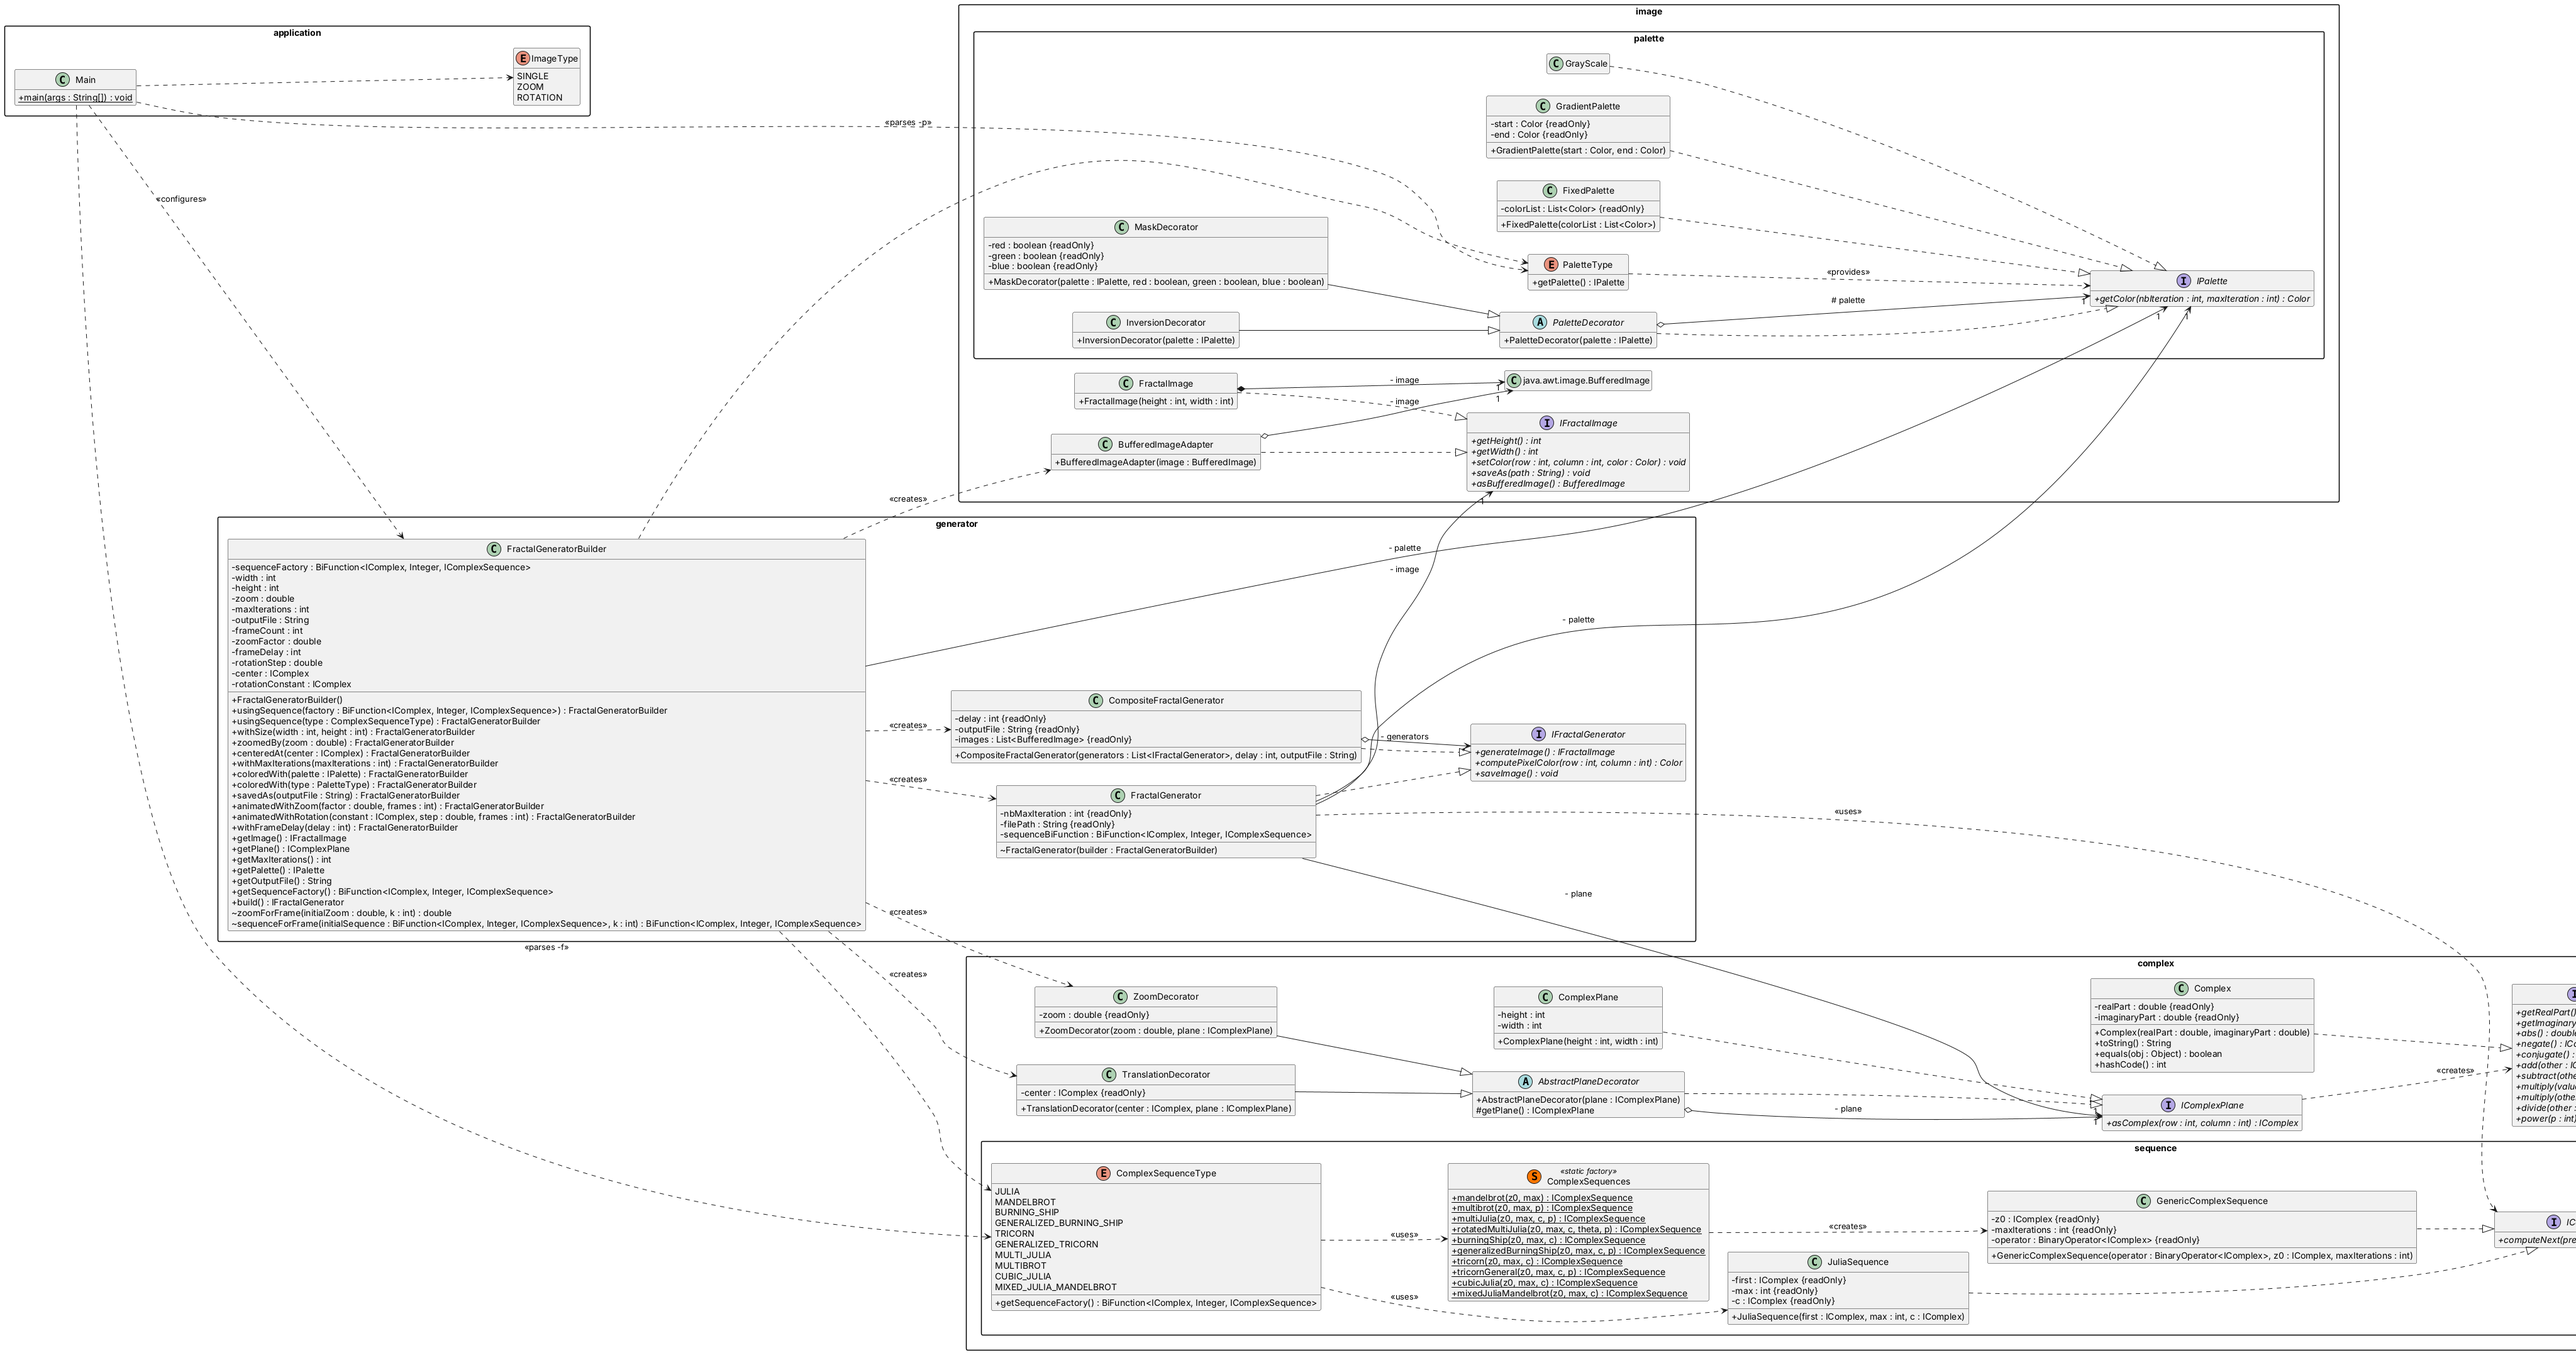
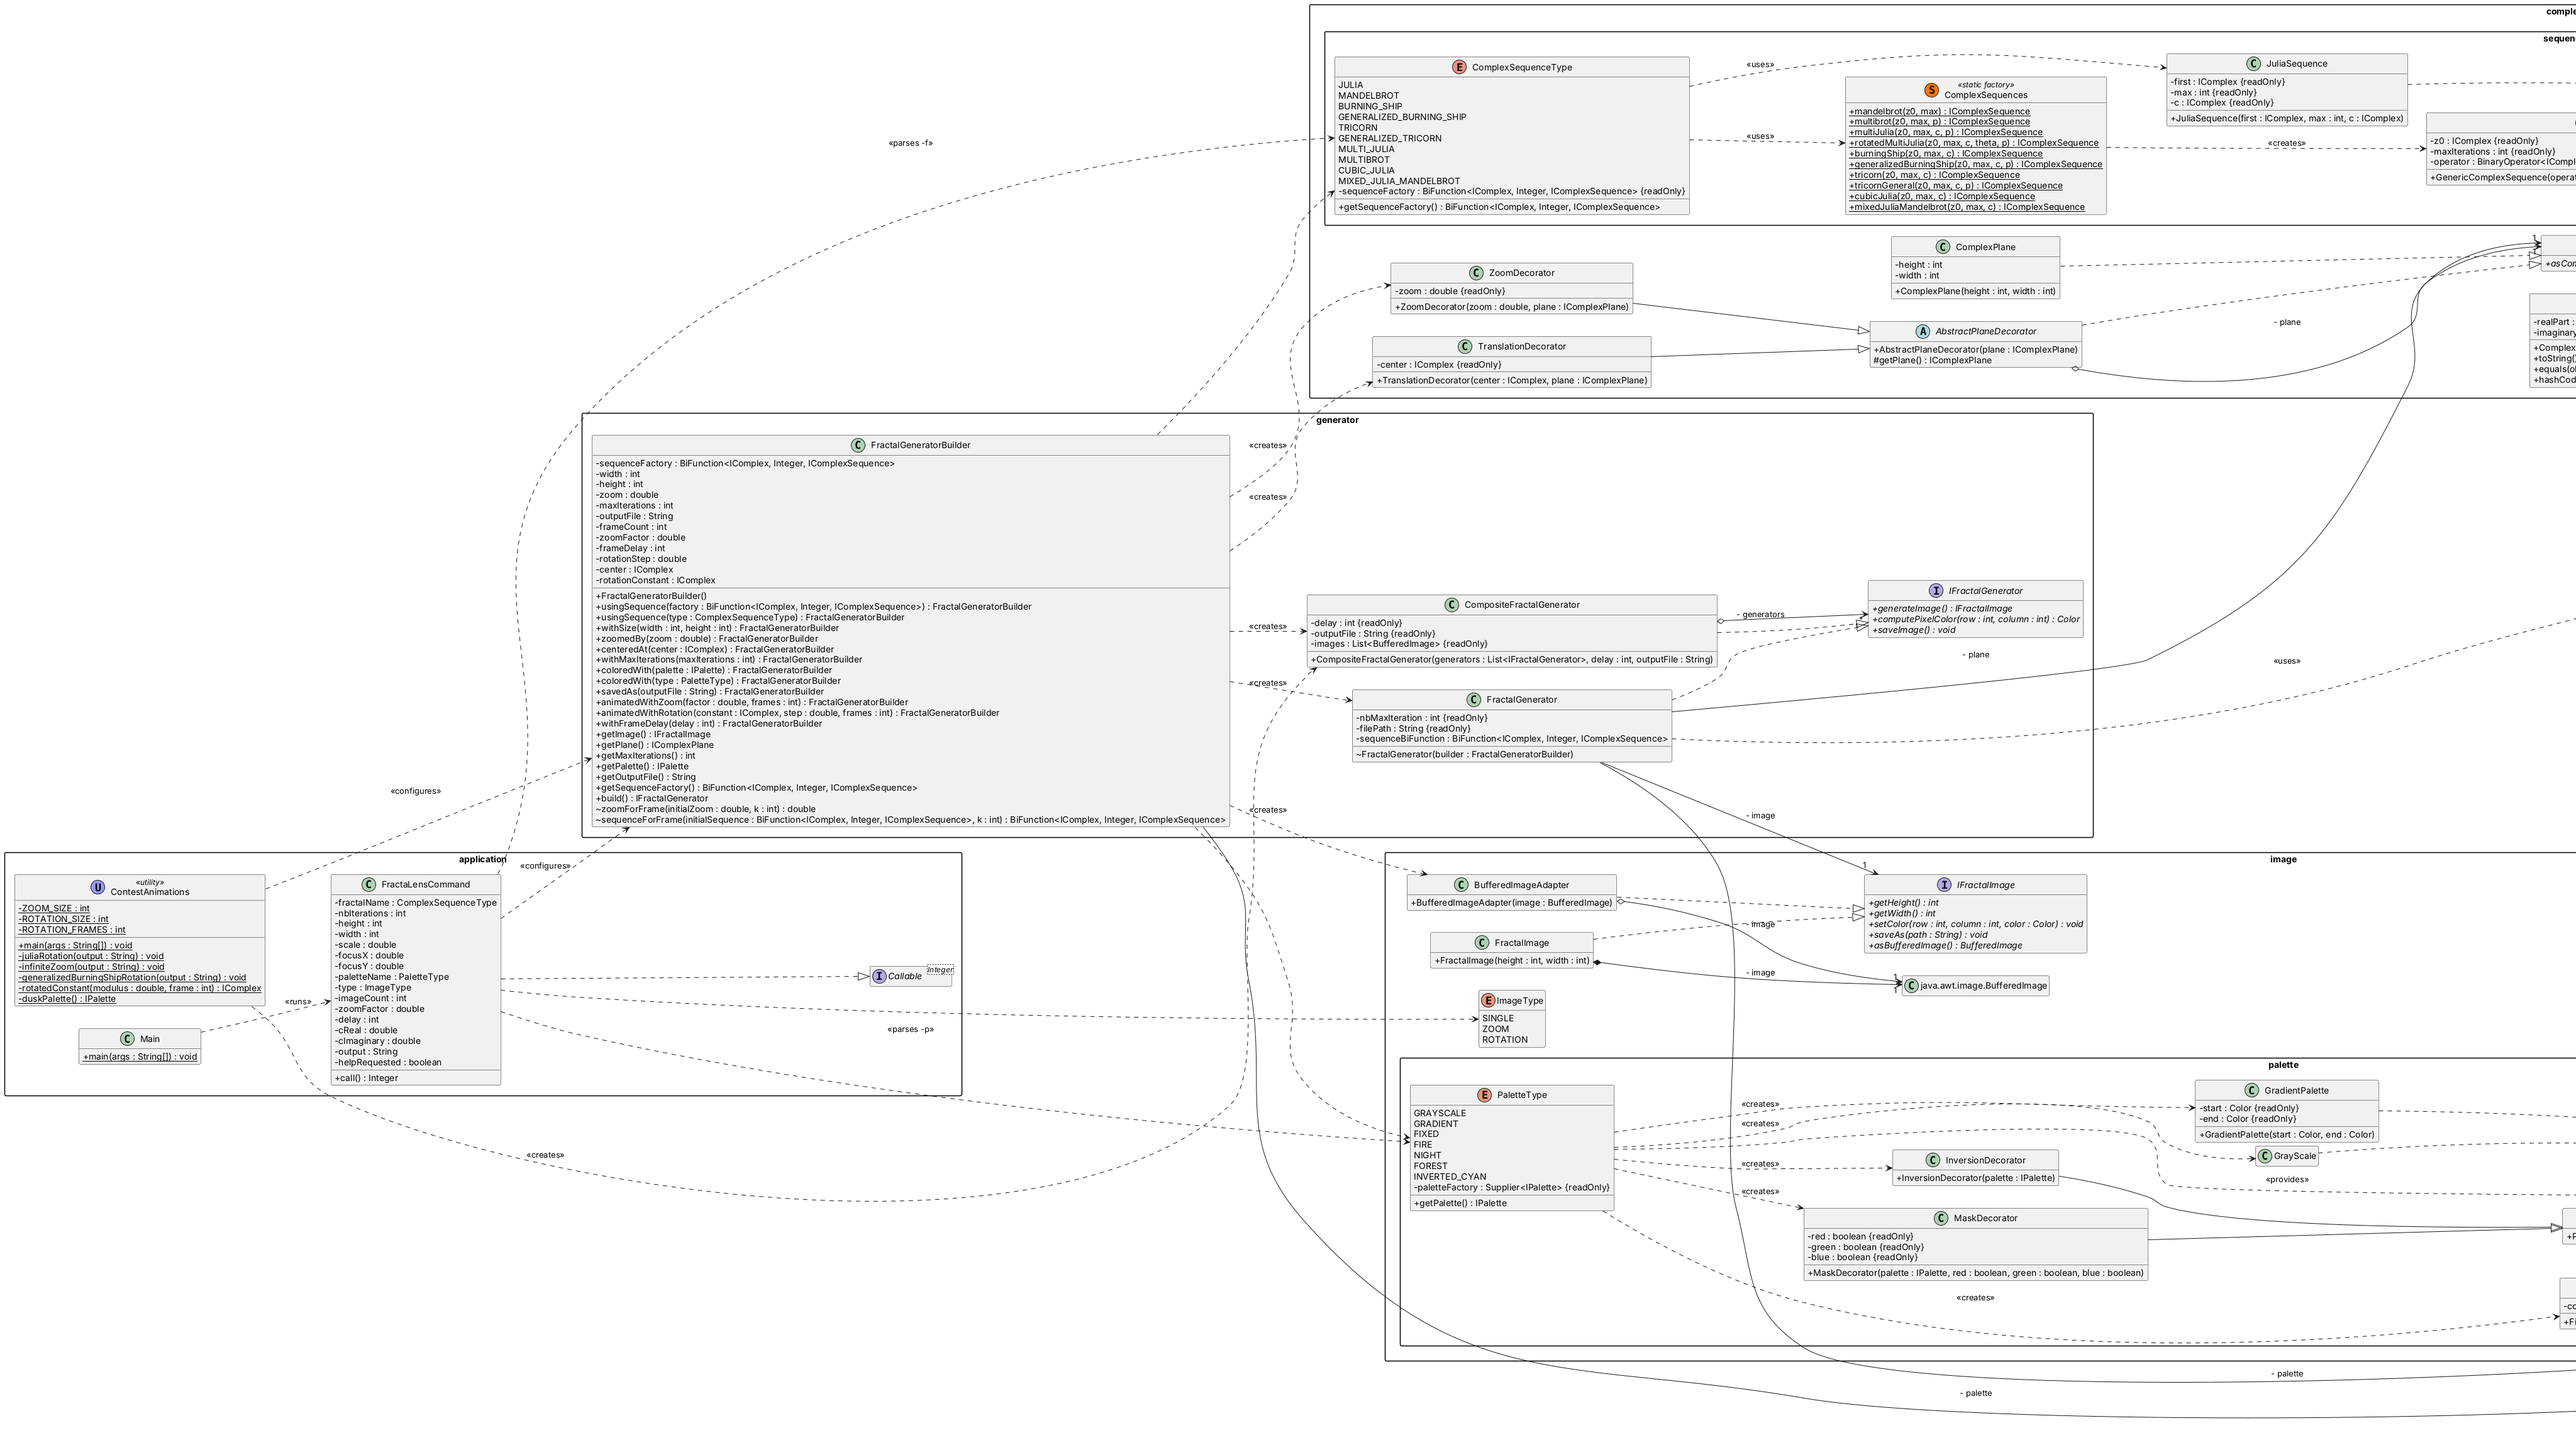
readMe

diff --git a/README.md b/README.md
@@ -84,9 +84,13 @@ enumeration:
 
 | Name | Palette |
 |------|---------|
-| `FIXED` | A fixed palette going from white to black, through three shades of blue. |
-| `GRADIENT` | A gradient going from dark green to black. |
 | `GRAYSCALE` | Shades of gray, from white to black. |
+| `GRADIENT` | A gradient going from dark green to black. |
+| `FIXED` | A fixed palette going from white to black, through three shades of blue. |
+| `FIRE` | A fixed palette going from pale yellow to black, through yellow, orange and red. |
+| `NIGHT` | A fixed palette going from dark blue to black, through purple, pink and gold. |
+| `FOREST` | A fixed palette going from dark green to black, through lighter greens. |
+| `INVERTED_CYAN` | The gray scale palette, inverted, keeping only its green and blue components. |
 
 ### Examples
 
@@ -118,12 +122,27 @@ Each image generated during the SAÉ can be obtained with the following commands
 | Sprint | Image | Command |
 |--------|-------|---------|
 | 2 | Julia, c = -0.4 + 0.6i, gray scale | `-f JULIA -w 800 -h 600 -s 0.004 -x 0 -y 0 -n 100 -p GRAYSCALE -o sprint2.png` |
-| 3 | Julia, c = -0.4 + 0.6i, centered on 0.1 + 0.6i | `-f JULIA -w 800 -h 800 -s 0.001 -x 0.1 -y 0.6 -n 250 -p <palette> -o sprint3-1.png` |
-| 3 | Julia, c = 0.285 + 0.01i, centered on -0.47 - 0.21i | `-f JULIA --c-real 0.285 --c-imaginary 0.01 -w 800 -h 800 -s 0.001 -x=-0.47 -y=-0.21 -n 250 -p <palette> -o sprint3-2.png` |
-| 4 | Mandelbrot, centered on -0.75 | `-f MANDELBROT -w 800 -h 600 -s 0.001 -x=-0.75 -y 0 -n 250 -p <palette> -o sprint4-1.png` |
-| 4 | Burning Ship, centered on -1.755 - 0.03i | `-f BURNING_SHIP -w 800 -h 800 -s 0.0001 -x=-1.755 -y=-0.03 -n 64 -p <palette> -o sprint4-2.png` |
-| 6 | Zoom on Mandelbrot | see the examples above |
-| 6 | Rotation of Julia | see the examples above |
+| 3 | Julia, c = -0.4 + 0.6i, centered on 0.1 + 0.6i | `-f JULIA -w 800 -h 800 -s 0.001 -x 0.1 -y 0.6 -n 250 -p FIRE -o sprint3-1.png` |
+| 3 | Julia, c = 0.285 + 0.01i, centered on -0.47 - 0.21i | `-f JULIA --c-real 0.285 --c-imaginary 0.01 -w 800 -h 800 -s 0.001 -x=-0.47 -y=-0.21 -n 250 -p INVERTED_CYAN -o sprint3-2.png` |
+| 4 | Mandelbrot, centered on -0.75 | `-f MANDELBROT -w 800 -h 600 -s 0.001 -x=-0.75 -y 0 -n 250 -p FIRE -o sprint4-1.png` |
+| 4 | Burning Ship, centered on -1.755 - 0.03i | `-f BURNING_SHIP -w 800 -h 800 -s 0.0001 -x=-1.755 -y=-0.03 -n 64 -p GRAYSCALE -o sprint4-2.png` |
+| 6 | Zoom on Mandelbrot | `-f MANDELBROT -t ZOOM -i 120 -w 200 -h 200 -s 0.015 -x=-0.743643887037151 -y 0.131825904205330 -n 500 -p FIRE -z 0.92 -d 80 -o sprint6-1.gif` |
+| 6 | Rotation of Julia | `-f JULIA -t ROTATION -i 72 -w 200 -h 200 -s 0.016 -x 0 -y 0 -n 50 -p FOREST --c-real 0.7885 --c-imaginary 0 -d 60 -o sprint6-2.gif` |
+
+Each command is given to the application with `./gradlew run --args="<command>"`.
+
+### Contest animations
+
+The animations proposed for the image contest of the SAÉ are generated by the
+`ContestAnimations` class, which uses the builder directly (some of them cannot
+be described with the options of the command line). Run its `main` method from
+your IDE: it generates the following files.
+
+| File | Category | Animation |
+|------|----------|-----------|
+| `contest-julia.gif` | Julia | A full rotation of the constant c of Julia's sequence, starting from c = 0.7885, with the `FOREST` palette. |
+| `contest-mandelbrot.gif` | Mandelbrot | An infinite zoom on the Feigenbaum point of the Mandelbrot set (c ≈ -1.4011551890920). Around this point, the set is self-similar: zooming by the Feigenbaum constant (δ ≈ 4.669) gives the same image, provided that the maximum number of iterations is doubled. The last image of the animation thus joins the first one, and the animation loops seamlessly. |
+| `contest-free.gif` | Free | A full rotation of the constant c of the generalized Burning Ship sequence of power 3, with \|c\| = 0.6. |
 
 ## Overview
 
@@ -257,6 +276,7 @@ package complex.sequence {
         MULTIBROT
         CUBIC_JULIA
         MIXED_JULIA_MANDELBROT
+        - sequenceFactory : BiFunction<IComplex, Integer, IComplexSequence> {readOnly}
         + getSequenceFactory() : BiFunction<IComplex, Integer, IComplexSequence>
     }
 
@@ -305,6 +325,14 @@ package image.palette {
     }
 
     enum PaletteType {
+        GRAYSCALE
+        GRADIENT
+        FIXED
+        FIRE
+        NIGHT
+        FOREST
+        INVERTED_CYAN
+        - paletteFactory : Supplier<IPalette> {readOnly}
         + getPalette() : IPalette
     }
 
@@ -316,6 +344,11 @@ package image.palette {
     MaskDecorator --|> PaletteDecorator
     InversionDecorator --|> PaletteDecorator
     PaletteType ..> IPalette : << provides >>
+    PaletteType ..> GrayScale : << creates >>
+    PaletteType ..> GradientPalette : << creates >>
+    PaletteType ..> FixedPalette : << creates >>
+    PaletteType ..> MaskDecorator : << creates >>
+    PaletteType ..> InversionDecorator : << creates >>
 }
 
 ' -------------- '
@@ -345,6 +378,12 @@ package image {
     }
     BufferedImageAdapter ..|> IFractalImage
     BufferedImageAdapter o--> "1" BufferedImage : - image
+
+    enum ImageType {
+        SINGLE
+        ZOOM
+        ROTATION
+    }
 }
 
 ' ------------------ '
@@ -425,12 +464,6 @@ package application {
         + {static} main(args : String[]) : void
     }
 
-    enum ImageType {
-        SINGLE
-        ZOOM
-        ROTATION
-    }
-
     class FractaLensCommand {
         - fractalName : ComplexSequenceType
         - nbIterations : int
@@ -447,10 +480,26 @@ package application {
         - cReal : double
         - cImaginary : double
         - output : String
+        - helpRequested : boolean
         + call() : Integer
     }
 
     interface "Callable<Integer>" as Callable
+
+    class ContestAnimations << (U,#9999FF) utility >> {
+        - {static} ZOOM_SIZE : int
+        - {static} ROTATION_SIZE : int
+        - {static} ROTATION_FRAMES : int
+        + {static} main(args : String[]) : void
+        - {static} juliaRotation(output : String) : void
+        - {static} infiniteZoom(output : String) : void
+        - {static} generalizedBurningShipRotation(output : String) : void
+        - {static} rotatedConstant(modulus : double, frame : int) : IComplex
+        - {static} duskPalette() : IPalette
+    }
+
+    ContestAnimations ..> FractalGeneratorBuilder : << configures >>
+    ContestAnimations ..> CompositeFractalGenerator : << creates >>
 
     FractaLensCommand ..|> Callable
     Main ..> FractaLensCommand : << runs >>
